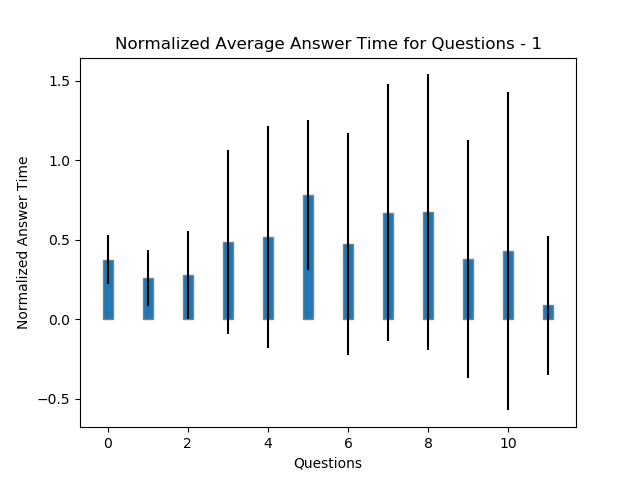
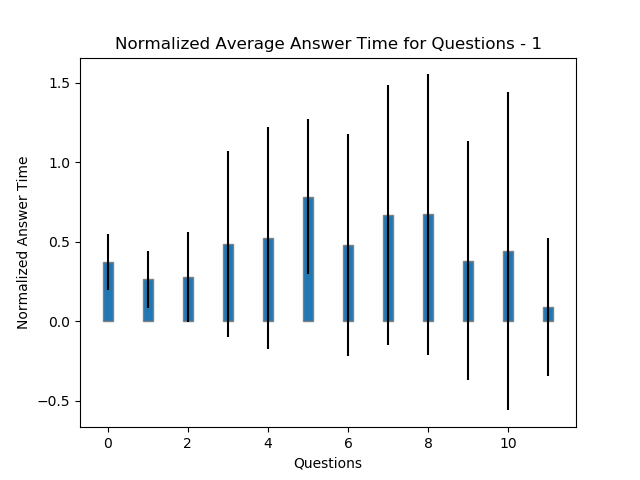
update statistics to user 52

diff --git a/main.py b/main.py
@@ -29,8 +29,8 @@ statistics.plots.get_questions_statistics_bar_plot(df_questions_statistics)
 
 # 4) Compute DataFrame with times spent for each questions to get each user answer
 
-# df_times_for_question = statistics.time_statistics.get_times_for_question_df(df_correct_answer, n_users)
-# df_times_for_question.to_csv("datasets/results/times_for_questions.csv", index=False)
+df_times_for_question = statistics.time_statistics.get_times_for_question_df(df_correct_answer, n_users)
+df_times_for_question.to_csv("datasets/results/times_for_questions.csv", index=False)
 
 df_times_for_question = pd.read_csv("datasets/results/times_for_questions.csv")
 
@@ -56,5 +56,5 @@ statistics.plots.get_error_bar_plot_time_questions_normalized(df_statistics_time
 
 # 6) Compute DataFrame with all the information related to each user answer
 
-# df_answer_complete_all_info = labelling.set_labels.get_answer_complete_all_info_df(n_users)
-# df_answer_complete_all_info.to_csv('datasets/results/answers_complete_all_info.csv', index=False)
+df_answer_complete_all_info = labelling.set_labels.get_answer_complete_all_info_df(n_users)
+df_answer_complete_all_info.to_csv('datasets/results/answers_complete_all_info.csv', index=False)
